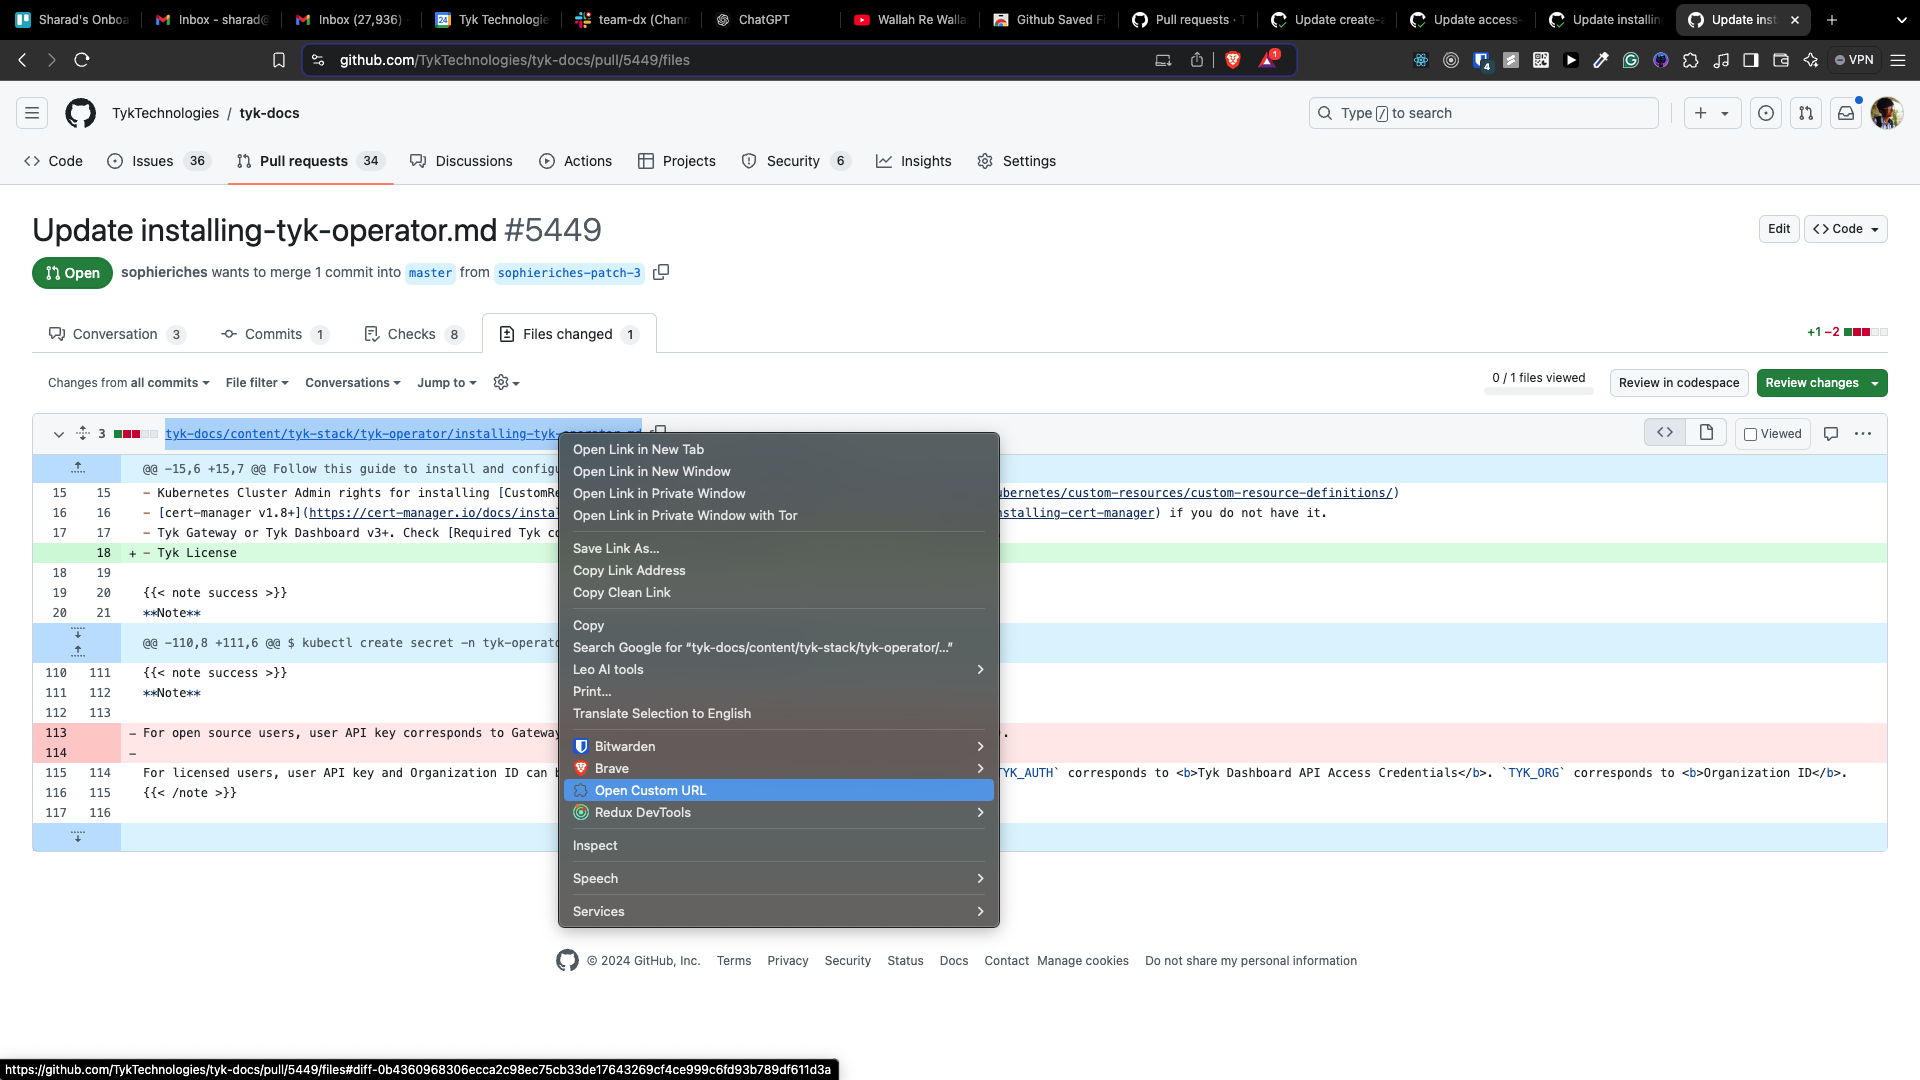
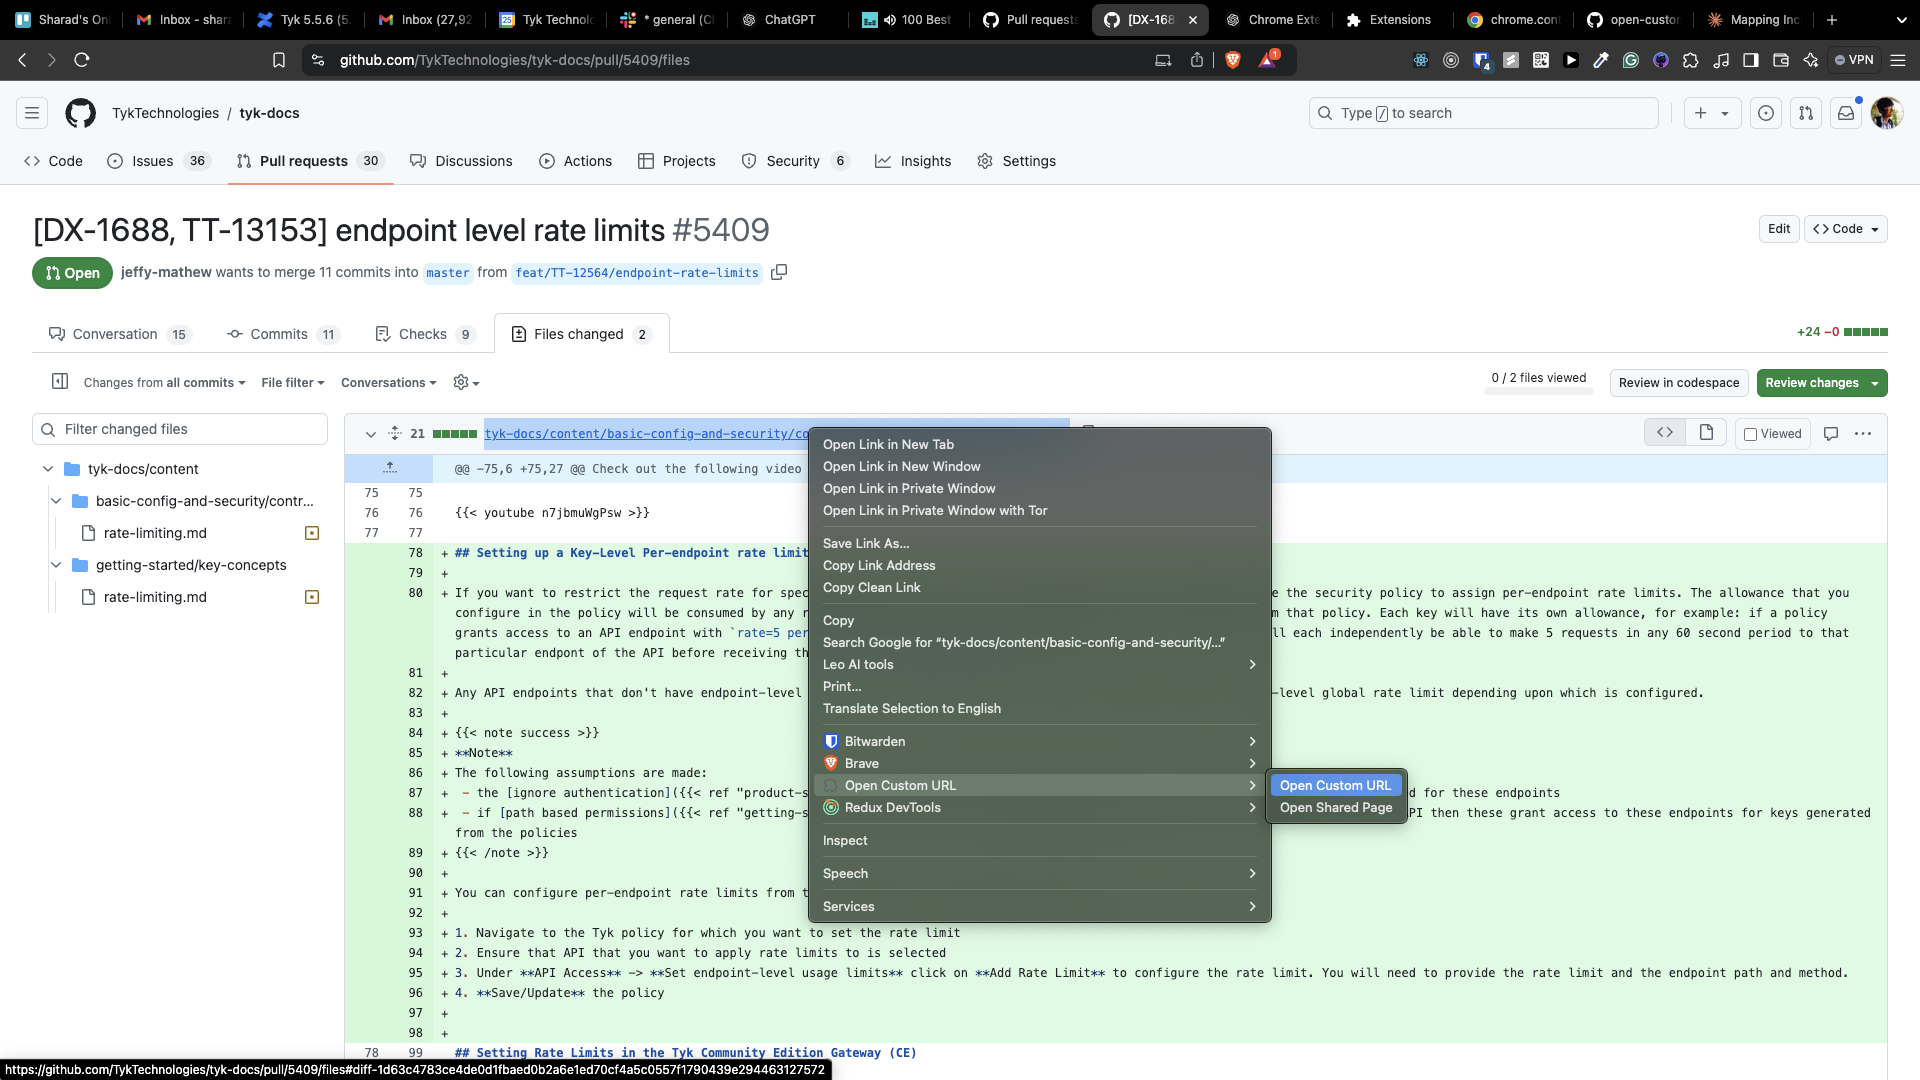
Added ability to open shared pages

diff --git a/background.js b/background.js
@@ -1,44 +1,177 @@
 chrome.runtime.onInstalled.addListener(() => {
+    // Create the "Open Custom URL" context menu
     chrome.contextMenus.create({
         id: "openCustomURL",
         title: "Open Custom URL",
         contexts: ["link"]
     });
+
+    // Create the "Open Shared Page" context menu
+    chrome.contextMenus.create({
+        id: "openSharedPage",
+        title: "Open Shared Page",
+        contexts: ["link"]
+    });
 });
 
+// Listen for context menu clicks
 chrome.contextMenus.onClicked.addListener((info, tab) => {
     if (info.menuItemId === "openCustomURL") {
-        const originalUrl = info.selectionText;
+        handleCustomUrl(info, tab);
+    } else if (info.menuItemId === "openSharedPage") {
+        handleSharedPage(info, tab);
+    } else if (info.menuItemId.startsWith("sharedSubMenu_")) {
+        handleSharedSubMenuClick(info);
+    }
+});
 
-        console.log("Link URL:", info);
-        // tyk-docs/content/getting-started/key-concepts/url-matching.md
-        // Remove the prefix "tyk-docs/content" and suffix ".md"
-        let finalURL = originalUrl
-            .replace(/^.*\/content\//, "") // Remove everything before and including "/content"
-            .replace(/\.md$/, ""); // Remove the ".md" suffix
-        console.log("Final URL:", finalURL);
+// Handle logic for "Open Custom URL"
+function handleCustomUrl(info, tab) {
+    const originalUrl = info.selectionText;
 
+    let finalURL = originalUrl
+        .replace(/^.*\/content\//, "") // Remove everything before and including "/content"
+        .replace(/\.md$/, "");
 
-        // Get the active tab URL
+    chrome.tabs.query({ active: true, currentWindow: true }, (tabs) => {
+        const currentUrl = new URL(tabs[0].url);
+        const currentTab = tabs[0]; // Get the currently active tab
+
+        const prNumber = extractPrNumber(currentUrl);
+        if (prNumber) {
+            const customUrl = `https://deploy-preview-${prNumber}--tyk-docs.netlify.app/docs/nightly/${finalURL}`;
+            chrome.tabs.create({ url: customUrl, index: currentTab.index + 1 });
+        } else {
+            console.log("PR Number not found");
+        }
+    });
+}
+
+// Extract PR number from the current URL
+function extractPrNumber(url) {
+    const prMatch = url.pathname.match(/pull\/(\d+)/);
+    return prMatch ? prMatch[1] : null;
+}
+
+// Handle logic for "Open Shared Page"
+function handleSharedPage(info, tab) {
+    const originalUrl = info.selectionText;
+    const sharedMapping = getSharedMapping();
+
+    // Extract the file name from the URL
+    let fileName = originalUrl
+        .replace(/^.*\/shared\//, "") // Remove everything before and including "/shared/"
+        .replace(/\.md$/, "");
+    console.log("File Name:", fileName);
+
+    // Find where the file is referenced in the sharedMapping
+    const references = sharedMapping[fileName];
+    if (references) {
+
+        console.log("Length of references", references.length)
+
         chrome.tabs.query({ active: true, currentWindow: true }, (tabs) => {
             const currentUrl = new URL(tabs[0].url);
             const currentTab = tabs[0]; // Get the currently active tab
 
-            // Extract PR number from URL
-            const prNumber = extractPrNumber(currentUrl);
-            if (prNumber) {
-                // Construct a new URL based on the PR number
-                const customUrl = `https://deploy-preview-${prNumber}--tyk-docs.netlify.app/docs/nightly/${finalURL}`;
-                chrome.tabs.create({ url: customUrl, index: currentTab.index + 1 });
-            } else {
-                console.log("PR Number not found");
-            }
-        });
-    }
-});
+            references.forEach((path, index) => {
+                let finalURL = path
+                    .replace(/^.*\/content\//, "") // Remove everything before and including "/content"
+                    .replace(/\.md$/, "");
+                
+                console.log(`Final URL ${1}: ${finalURL}`)
 
-function extractPrNumber(url) {
-    // Regular expression to capture the PR number
-    const prMatch = url.pathname.match(/pull\/(\d+)/);
-    return prMatch ? prMatch[1] : null;
+                const prNumber = extractPrNumber(currentUrl);
+                if (prNumber) {
+                    const customUrl = `https://deploy-preview-${prNumber}--tyk-docs.netlify.app/docs/nightly/${finalURL}`;
+                    chrome.tabs.create({ url: customUrl, index: currentTab.index + 1 });
+                } else {
+                    console.log("PR Number not found");
+                }
+            });
+
+        });
+    } else {
+        console.log("No references found for this shared file");
+    }
+}
+
+// Handle logic for submenu clicks
+function handleSharedSubMenuClick(info) {
+    const clickedMenuId = info.menuItemId;
+    const path = info.menuItemId.replace("sharedSubMenu_", "");
+
+    console.log("Clicked shared submenu:", clickedMenuId, path);
+    // You can now open the corresponding tab or do other actions
+}
+
+// The shared mapping object
+function getSharedMapping() {
+    return {
+        "self-managed-licensing-include": [
+            "tyk-docs/tyk-docs/content/apim.md"
+        ],
+        "tyk-gateway-features-include": [
+            "tyk-docs/tyk-docs/content/tyk-oss-gateway.md"
+        ],
+        "oss-product-list-include": [
+            "tyk-docs/tyk-docs/content/tyk-stack.md",
+            "tyk-docs/tyk-docs/content/apim/open-source.md"
+        ],
+        "create-api-key-include": [
+            "tyk-docs/tyk-docs/content/getting-started/create-api-key.md"
+        ],
+        "create-api-include": [
+            "tyk-docs/tyk-docs/content/getting-started/create-api.md"
+        ],
+        "create-security-policy-include": [
+            "tyk-docs/tyk-docs/content/getting-started/create-security-policy.md"
+        ],
+        "create-portal-entry-include": [
+            "tyk-docs/tyk-docs/content/getting-started/tutorials/publish-api.md"
+        ],
+        "mongodb-versions-include": [
+            "tyk-docs/tyk-docs/content/planning-for-production/database-settings/mongodb.md",
+            "tyk-docs/tyk-docs/content/tyk-dashboard/database-options.md"
+        ],
+        "sql-versions-include": [
+            "tyk-docs/tyk-docs/content/planning-for-production/database-settings/postgresql.md",
+            "tyk-docs/tyk-docs/content/tyk-dashboard/database-options.md"
+        ],
+        "grpc-include": [
+            "tyk-docs/tyk-docs/content/plugins/supported-languages/rich-plugins/grpc/custom-auth-dot-net.md",
+            "tyk-docs/tyk-docs/content/plugins/supported-languages/rich-plugins/grpc/custom-auth-nodejs.md",
+            "tyk-docs/tyk-docs/content/plugins/supported-languages/rich-plugins/grpc/request-transformation-java.md"
+        ],
+        "api-def-authentication": [
+            "tyk-docs/tyk-docs/content/tyk-apis/tyk-gateway-api/api-definition-objects/authentication.md"
+        ],
+        "api-def-events": [
+            "tyk-docs/tyk-docs/content/tyk-apis/tyk-gateway-api/api-definition-objects/events.md"
+        ],
+        "api-def-graphql": [
+            "tyk-docs/tyk-docs/content/tyk-apis/tyk-gateway-api/api-definition-objects/graphql.md"
+        ],
+        "api-def-common": [
+            "tyk-docs/tyk-docs/content/tyk-apis/tyk-gateway-api/api-definition-objects/other-root-objects.md"
+        ],
+        "api-def-uptime": [
+            "tyk-docs/tyk-docs/content/tyk-apis/tyk-gateway-api/api-definition-objects/uptime-tests.md"
+        ],
+        "*-tyk-gateway.md*": [
+            "tyk-docs/tyk-docs/content/tyk-apis/tyk-gateway-api/oas/x-tyk-oas-doc.md"
+        ],
+        "dashboard-config.md": [
+            "tyk-docs/tyk-docs/content/tyk-dashboard/configuration.md"
+        ],
+        "mdcb-config.md": [
+            "tyk-docs/tyk-docs/content/tyk-multi-data-centre/mdcb-configuration-options.md"
+        ],
+        "gateway-config.md": [
+            "tyk-docs/tyk-docs/content/tyk-oss-gateway/configuration.md"
+        ],
+        "pump-config.md": [
+            "tyk-docs/tyk-docs/content/tyk-pump/tyk-pump-configuration/tyk-pump-environment-variables.md"
+        ]
+    };
 }

diff --git a/readme.md b/readme.md
@@ -1,7 +1,5 @@
 # open-custom-url-chrome-extension
 
-![Example Usage](open-custom-url.png "Title")
-
 # Installation
 1. Download this repository locally
 2. Open this URL in chrome `chrome://extensions`
@@ -10,7 +8,22 @@
 5. You are good to go
 
 # Usage
+
+## Opening content inside /shared directory
+1. Go to the `files changed` tab of any github pull request
+2. Shared pages cannot be opened directly, as they are referenced using `{{< include` key in the markdown
+3. This extension stores a mapping of all the referenced pages
+4. Hover over the page link & right click on it
+5. In the `contextMenu` you should see an option called `Open Shared URL`
+6. Click on this option & it will open the all the referenced netlify deployment page.`
+
+![Example Usage](open-shared-page.png "Title")
+
+
+## Opening any other content
 1. Go to the `files changed` tab of any github pull request
 2. Hover over the page link & right click on it
 3. In the `contextMenu` you should see an option called `Open Custom URL`
 4. Click on this option & it will open the corresponding netlify deployment page.`
+
+![Example Usage](open-custom-url.png "Title")
